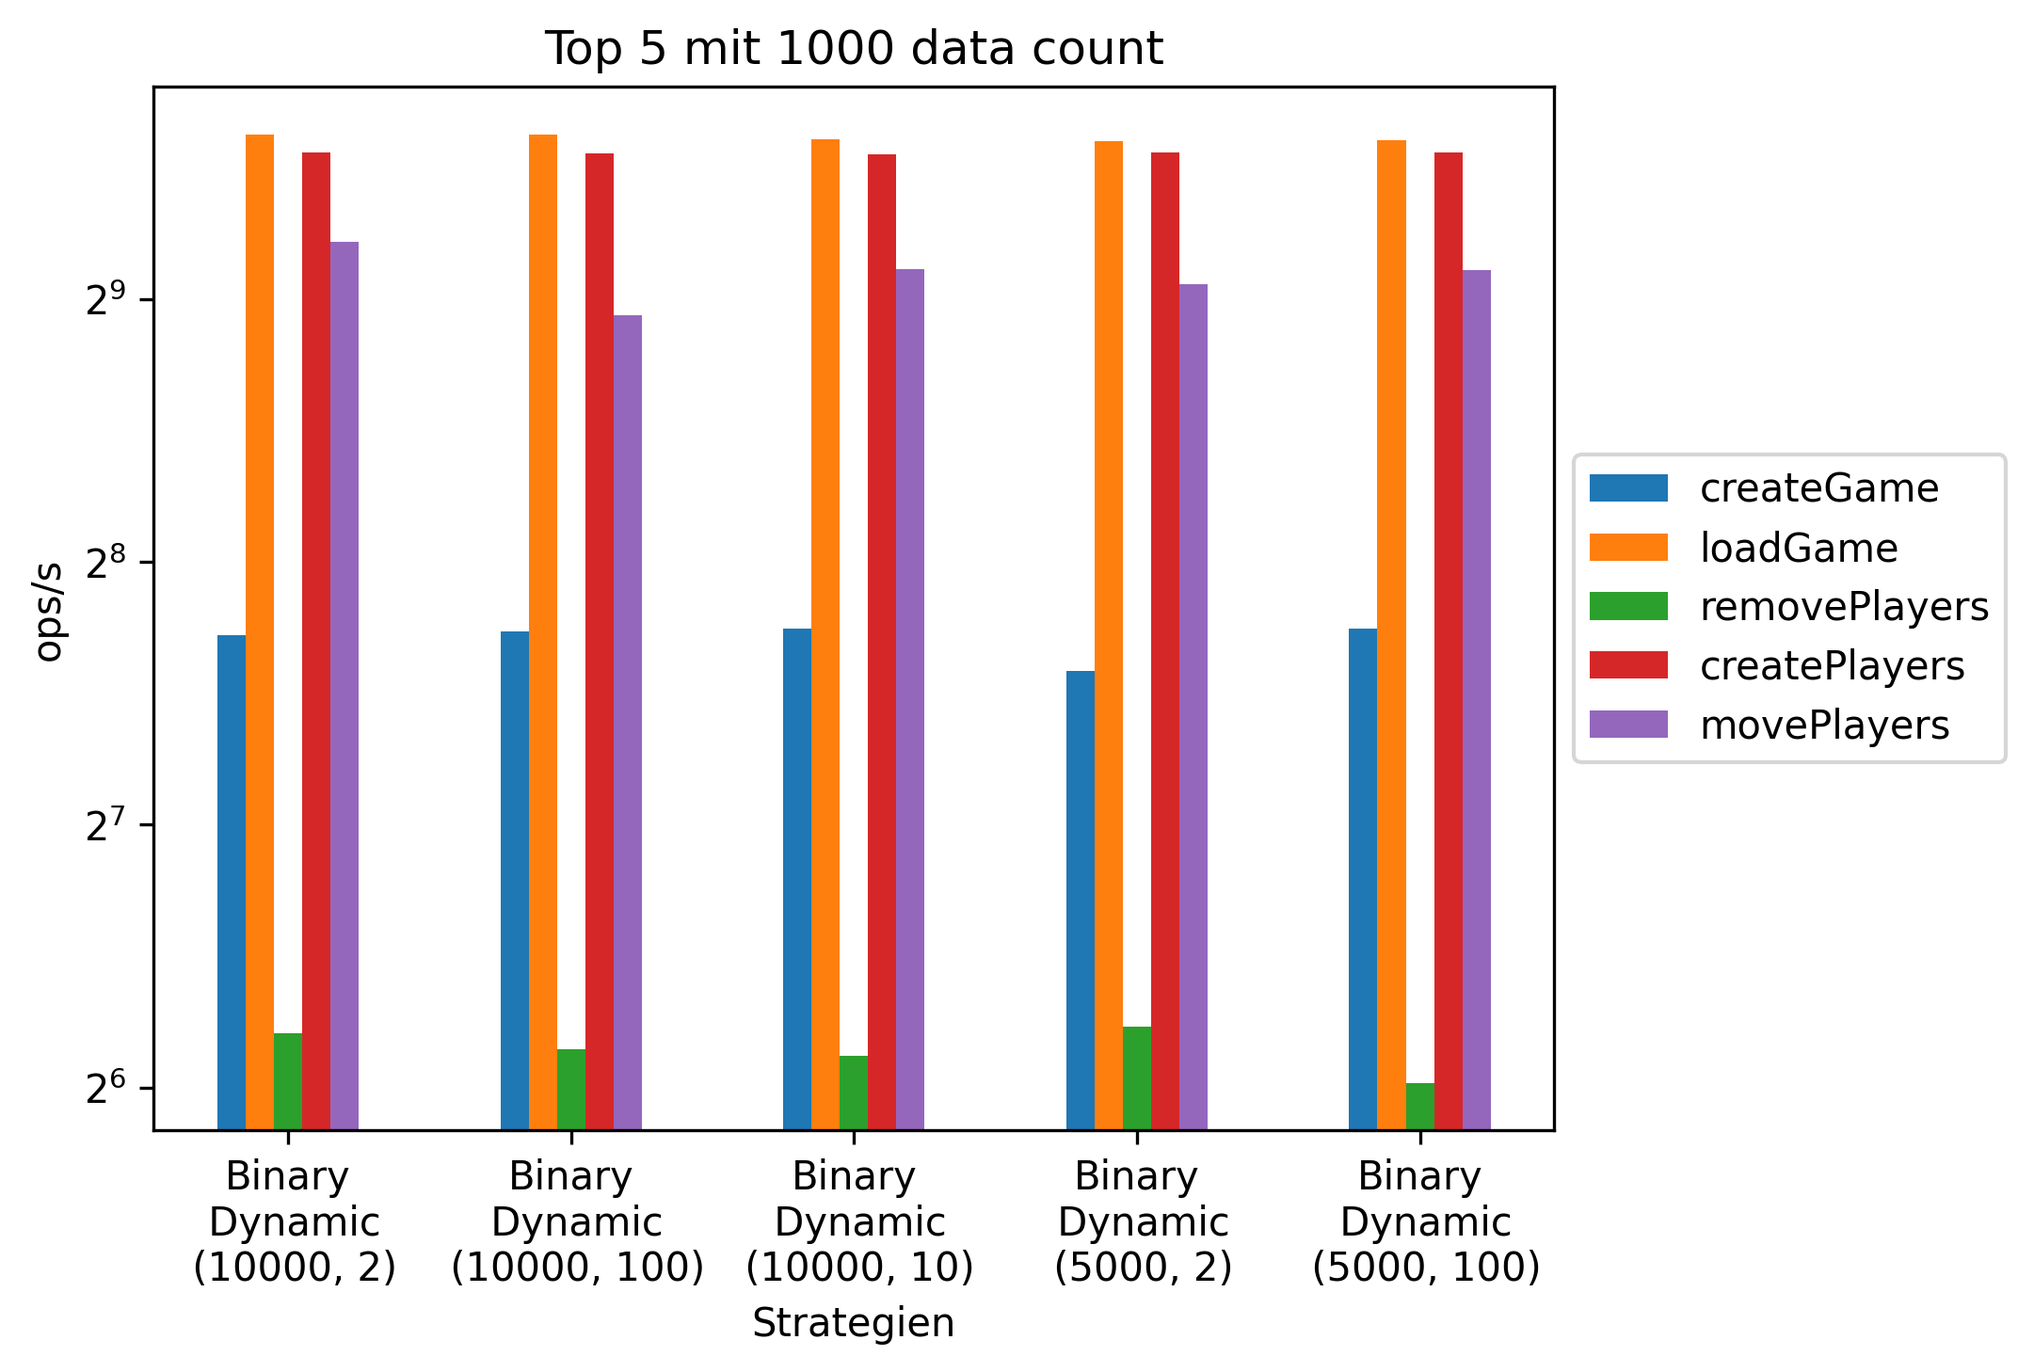
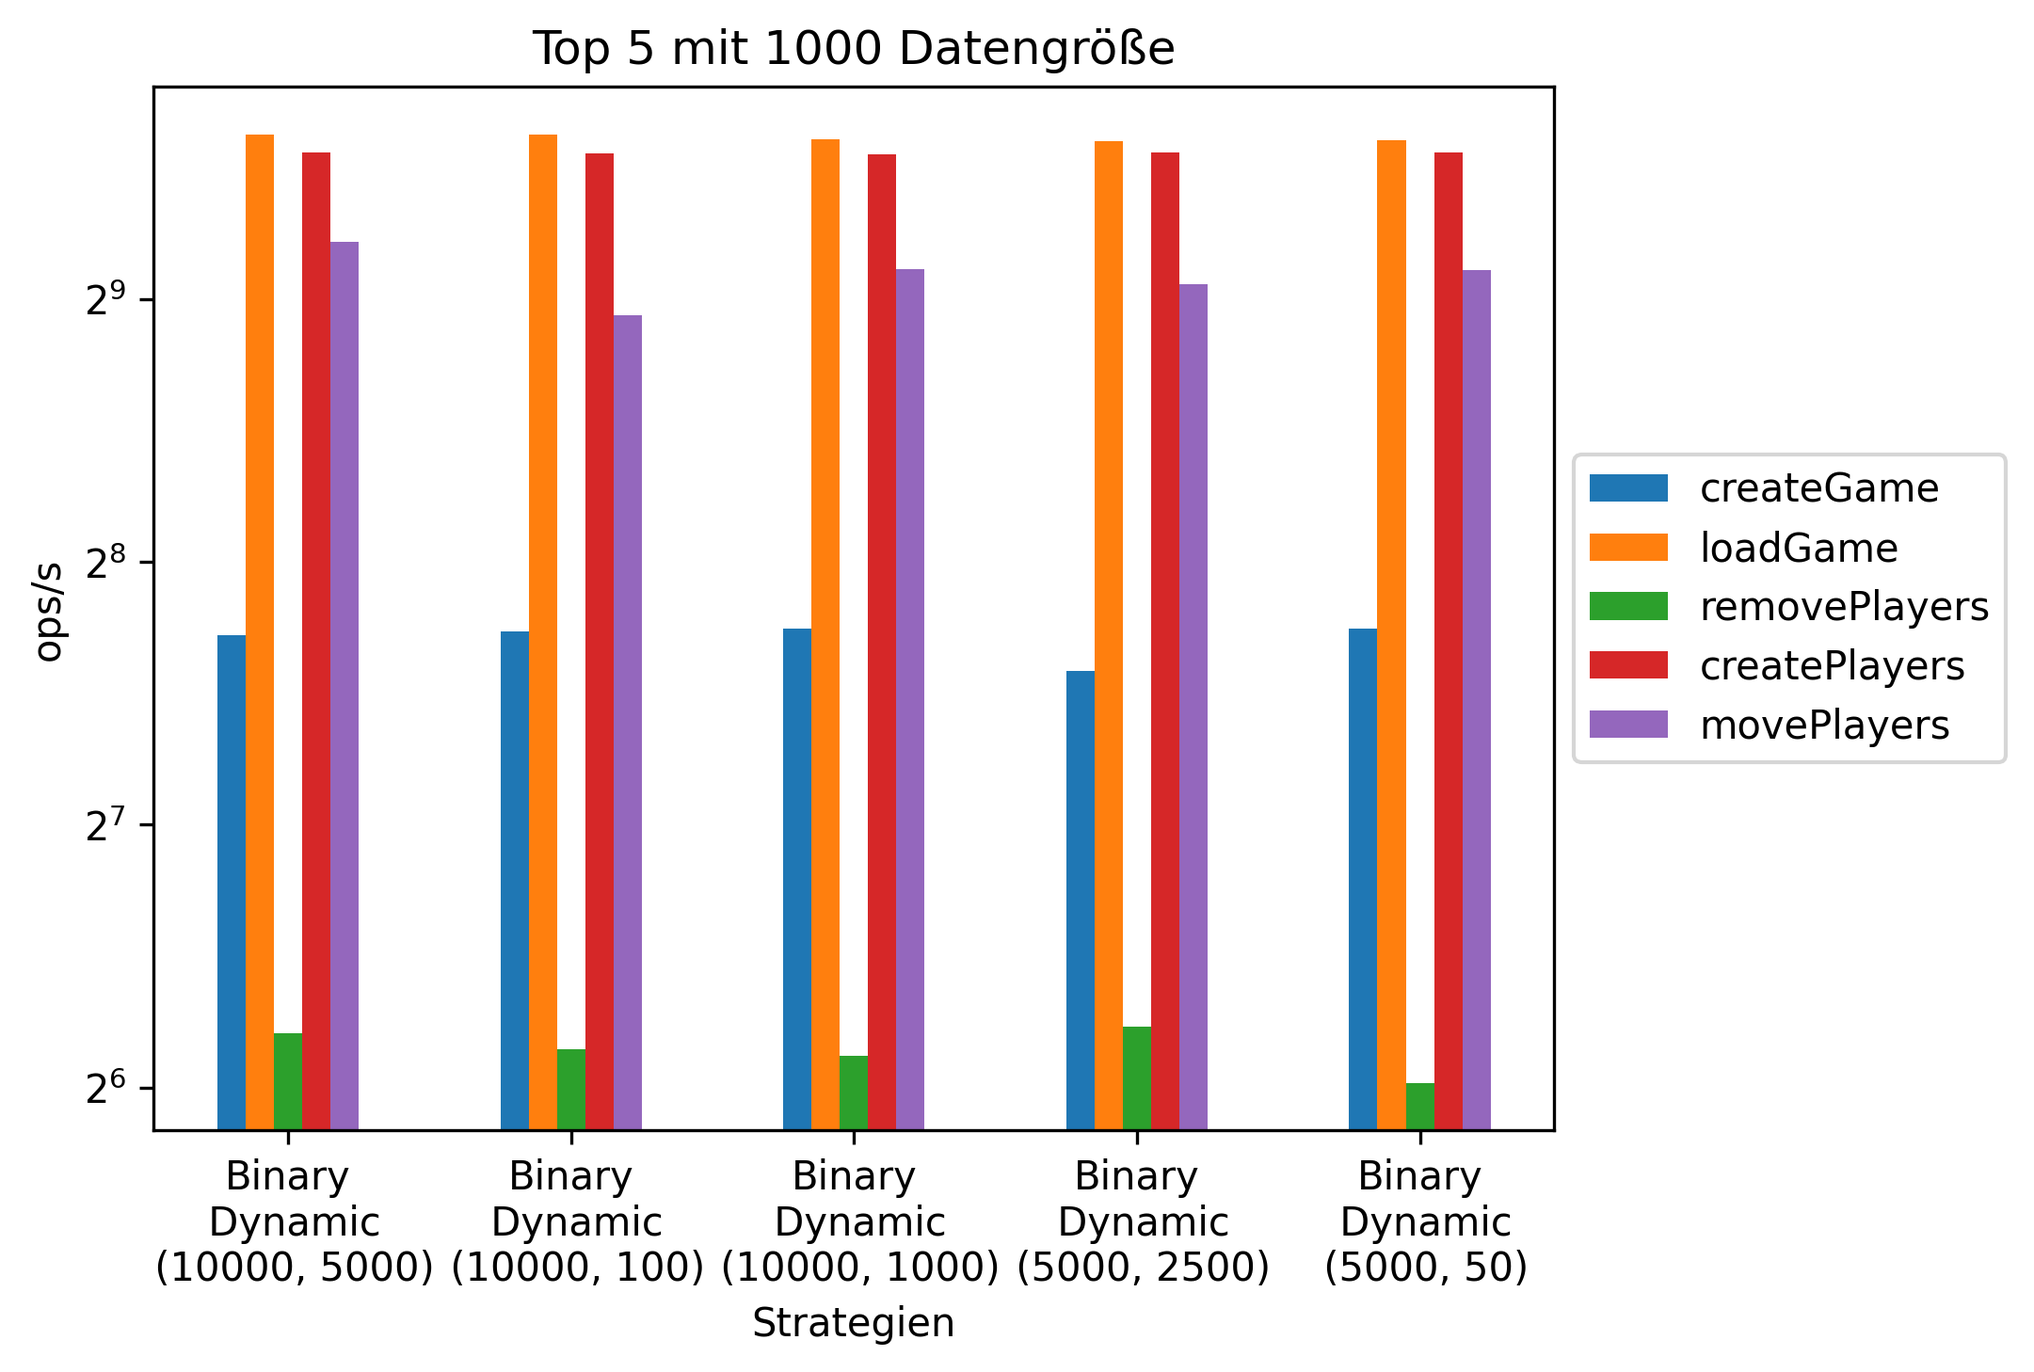
feat: chapter 1.3.3

diff --git a/thesis/src/chapter/2-algorithmen.tex b/thesis/src/chapter/2-algorithmen.tex
@@ -350,9 +350,9 @@ Kompression von Daten ist bei vielen Software-Projekten weit verbreitet, um die 
 
 Um diese Frage zu beantworten, muss erst mal geschaut werden, wann und wo Datenkomprimierung verwendet wird. Hauptsächlich wird Datenkompression verwendet, wenn eine große Datenmenge gespeichert werden muss. Je nach Algorithmus ist es durchaus möglich, dass die komprimierte Datenmenge weniger als die Hälfte der Größe der ursprünglichen Datenmenge verfügt. Dadurch werden Kosten gespart, denn das Speichermedium braucht weniger Speicherplatz. Die Komprimierung von Daten hat aber nicht nur auf den Speicherplatz einen positiven Einfluss. Wenn eine Anwendung einen hohen Datentransfer hat, kann mithilfe von Datenkompression die Menge der gesendeten Daten gesteigert werden. Dies ist bei Videospielen hilfreich, denn beim Speichern des Spielstandes müssen die Daten der einzelnen Spielobjekte aus dem Arbeitsspeicher auf den Sekundärspeicher gespeichert werden. Da der Sekundärspeicher ein viel langsameres Speichermedium als der Arbeitsspeicher ist, hilft es dort, die Größe der Daten bei den Schreib- und Leseprozessen zu reduzieren.\cite{mediumWhenDataCompression}
 
-\subsubsection{GZIP}
+\subsubsection{Gzip}
 
-Eine Möglichkeit, Daten zu komprimieren, ist mit dem populären patentfreien Kompressionsprogramm GZIP\footnote{GNU zip}. GZIP verwendet den Deflate-Algorithmus, der eine Kombination aus dem  LZ77\footnote{Lempel-Ziv 77}-Algorithmus und der Huffman-Kodierung ist. Die komprimierten Daten befinden sich in einer gzip-Datei, die die Daten als 32 Kilobytes Blöcke analysiert. Sobald in einem Block sich Wörter wiederholen, kann dieser Block komprimiert werden. \cite{gnuGzip}\cite{1414952}\cite{seobilityGzipFunktioniert}
+Eine Möglichkeit, Daten zu komprimieren, ist mit dem populären patentfreien Kompressionsprogramm \ac{gzip}. \ac{gzip} verwendet den Deflate-Algorithmus, der eine Kombination aus dem  LZ77\footnote{Lempel-Ziv 77}-Algorithmus und der Huffman-Kodierung ist. Die komprimierten Daten befinden sich in einer \ac{gzip}-Datei, die die Daten als 32 Kilobytes Blöcke analysiert. Sobald in einem Block sich Wörter wiederholen, kann dieser Block komprimiert werden. \cite{gnuGzip}\cite{1414952}\cite{seobilityGzipFunktioniert}
 
 \subsubsection{\ac{json} Hpack}
 \ac{json} Hpack, oder auch \ac{json} Homogeneous Collections Compressor genannt, ist eine \ac{json}-Komprimierung, die Arrays in \ac{json}-Dokumenten in einer kompakteren Art darstellt und dabei das \ac{json}-Format beibehält. In dem Beispiel \ref{lst:hpackCompressedExp} wird gezeigt, wie das \ac{json}-Dokument \ref{lst:hpackJsonExp} in einer komprimierten Form geschrieben werden kann. Die Komprimierung wird von \ac{json} Hpack dann durchgeführt, welches aus den Daten ein kompakteres eindimensionales Array erstellt. Am Anfang des Arrays wird mit einer Zahl definiert, wie viele Schlüssel das Array benutzt. Diese werden dann in den darauf folgenden Strings aufgezählt. In diesem Beispiel gibt es die vier Schlüssel namens "id", "name", "level" und "health". Was darauf folgt, sind die Objekte des Arrays und deren Werte. Diese werden ungetrennt in das Array gespeichert. Die Trennung der einzelnen Objekte wird mit der Information der Anzahl der Schlüssel erreicht.
@@ -491,7 +491,7 @@ In der Abbildung \ref{fig:altchunkBasedSystem} ist das Ablaufdiagramm des Chunk-
 
 \begin{figure}[htp]
     \centering
-    \includegraphics[width=0.36\textwidth]{images/Chunkbasiert2.png}
+    \includegraphics[width=0.3\textwidth]{images/Chunkbasiert2.png}
     \caption{Alternative zu dem Chunk-basierten System}
     \label{fig:altchunkBasedSystem}
 \end{figure}
@@ -516,19 +516,28 @@ Zum Testen der Strategien wurde ein Testszenario aufgestellt, welches Aktionen v
 Um diese Datenstruktur und Parameter dieser richtig zu testen, wurden fünf verschiedene Szenarien erstellt, die die Basisaktionen in einem Spiel simulieren sollen. Die Funktion \textit{"createGame"} stellt das Szenario da, bei dem ein neues Spiel erstellt wird und die komplette Datenstruktur eines Spieles aufgebaut werden muss. Die Funktion \textit{"loadGame"} stellt das Szenario da, bei dem ein Spieler den letzten Spielstand wieder weiterspielen will. Hier müssen die alte Datenstruktur und Spieldaten geladen werden. Die Funktionen \textit{"creatPlayers"}, \textit{"movePlayers"} und \textit{"removePlayers"} simulieren verschiedene Szenarien während das Spiel gespielt wird. Bei diesen Funktionen wird ein alter Spielstand geladen und dieser wird danach bearbeitet. Bei "createPlayers" wird simuliert, dass während des Spielens neue Gegner erstellt werden. Bei "movePlayers" werden zufällige \acp{npc} und der Spieler selber verschoben und bei der Funktion "removePlayers" werden Gegner gelöscht, weil diese zum Beispiel von dem Spieler besiegt wurden. Alle Änderungen werden am Ende jeder dieser Funktionen gespeichert.  
 
 \subsubsection{Parameter}
-Als Speicher- und Ladesystem wurden die zwei Systeme der Abbildungen \ref{fig:chunkBasedSystem} und \ref{fig:altchunkBasedSystem} verwendet. Dabei gibt es einen Parameter, mit dem eingestellt werden kann, ob eine sogenannte Change-Datei verwendet werden soll, die alle Änderungen der Spielobjekte so kompakt wie möglich speichert. Ein weiterer Parameter des Systems ist, mit welcher Art von Serialisierung gearbeitet werden soll. Es gibt die Wahl zwischen der binären Serialisierung und der Serialisierung zu JSON. Für die binäre Serialisierung wurde der Protocol Buffer verwendet, da dieser auch für Java unterstützt wird. Für die Serialisierung zu JSON wurde die Bibliothek Jackson verwendet. Jackson bietet eine Vielzahl an Funktionen an, um Java-Objekte als JSON-String zu formatieren und abzuspeichern.\cite{githubGitHubFasterXMLjackson} Die Strategien mit Protocol Buffer und Jackson laufen außerhalb des Serialisierungsprozesses exakt gleich ab. Bei der Serialisierung gibt es auch die Option danach GZip auf die Daten anzuwenden, um die Schreib- und Leseprozesse im Sekundärspeicher zu reduzieren. Nach diesen Parametern gibt es noch Einstellungen für das Chunk-System. Wenn für Chunks mit dynamischer Größe entschieden wird, muss eingestellt werden, wie viele Player-Objekte ein Chunk maximal haben kann, bevor er in kleinere Chunks aufgeteilt wird. Außerdem muss eingestellt werden, unter welcher Anzahl von Player-Objekten in einer Gruppe von vier Chunks diese wieder vereinigt werden. Dafür wird die Summe deren Player-Objekte berechnet und wenn diese unter der festgelegten Grenze liegt, werden die Chunks wieder vereinigt. Bei einer statischen Chunkgröße muss eingestellt werden, wie viele Chunks die Spielwelt haben soll. Die Spielwelt hat dabei eine feste Größe, aber es können theoretisch unendlich viele Spieler an einer Position sein. 
+Als Speicher- und Ladesystem wurden die zwei Systeme der Abbildungen \ref{fig:chunkBasedSystem} und \ref{fig:altchunkBasedSystem} verwendet. Dabei gibt es einen Parameter, mit dem eingestellt werden kann, ob eine sogenannte Change-Datei verwendet werden soll, die alle Änderungen der Spielobjekte so kompakt wie möglich speichert. Ein weiterer Parameter des Systems ist, mit welcher Art von Serialisierung gearbeitet werden soll. Es gibt die Wahl zwischen der binären Serialisierung und der Serialisierung zu JSON. Für die binäre Serialisierung wurde der Protocol Buffer verwendet, da dieser auch für Java unterstützt wird. Für die Serialisierung zu JSON wurde die Bibliothek Jackson verwendet. Jackson bietet eine Vielzahl an Funktionen an, um Java-Objekte als JSON-String zu formatieren und abzuspeichern.\cite{githubGitHubFasterXMLjackson} Die Strategien mit Protocol Buffer und Jackson laufen außerhalb des Serialisierungsprozesses exakt gleich ab. Bei der Serialisierung gibt es auch die Option danach \ac{gzip}-Komprimierung auf die Daten anzuwenden, um die Schreib- und Leseprozesse im Sekundärspeicher zu reduzieren. Nach diesen Parametern gibt es noch Einstellungen für das Chunk-System. Wenn für Chunks mit dynamischer Größe entschieden wird, muss eingestellt werden, wie viele Player-Objekte ein Chunk maximal haben kann, bevor er in kleinere Chunks aufgeteilt wird. Außerdem muss eingestellt werden, unter welcher Anzahl von Player-Objekten in einer Gruppe von vier Chunks diese wieder vereinigt werden. Dafür wird die Summe deren Player-Objekte berechnet und wenn diese unter der festgelegten Grenze liegt, werden die Chunks wieder vereinigt. Bei einer statischen Chunkgröße muss eingestellt werden, wie viele Chunks die Spielwelt haben soll. Die Spielwelt hat dabei eine feste Größe, aber es können theoretisch unendlich viele Spieler an einer Position sein. 
 
 Zum Testen der Parameter werden die verschiedenen Funktionen aus \ref{sssec:dataAndSce} ausgeführt. Dabei werden den Funktionen unterschiedliche Größen von Daten übergeben. Als Größen gibt es einmal 1000 Daten, 10000 Daten und 100000 Daten. Zum Beispiel stellt der Parameter von der Funktion "createGame" ein, wie viele Player beim neuen Spiel erstellt werden sollen. Dies können dann 1000, 10000 oder 100000 Player-Objekte sein.  
 
 \subsubsection{Ergebnisse}
-Die verschiedenen Parameter und Größen der Daten wurden mit JMH getestet. JMH ist ein Java-Harness zum Erstellen von Benchmarks. In diesen Benchmarks können die Laufzeiten von Funktionen und Programmen gemessen werden, indem diese über mehrere Durchläufe ausgeführt werden und am Ende eine durchschnittliche Laufzeit zurückgegeben wird. Diese wird bei JMH in "ops/s" (Operationen pro Sekunde), also wie oft die zu testende Funktion pro Sekunde ausgeführt werden kann.\cite{githubGitHubOpenjdkjmh}
+Die verschiedenen Parameter und Größen der Daten wurden mit JMH getestet. JMH ist ein Java-Harness zum Erstellen von Benchmarks. In diesen Benchmarks können die Laufzeiten von Funktionen und Programmen gemessen werden, indem diese über mehrere Durchläufe ausgeführt werden und am Ende eine durchschnittliche Laufzeit zurückgegeben wird. Diese wird bei JMH in \ac{ops}, also wie oft die zu testende Funktion pro Sekunde ausgeführt werden kann, angegeben.\cite{githubGitHubOpenjdkjmh}
 
-Bei den Ergebnissen\footnote{Alle Ergebnisse der Messungen der verschiedenen Strategien: \url{https://github.com/Giulcoo/bachelor-thesis/blob/main/resources/Strategies\%20Results/Score.txt}} in der Abbildung \ref{fig:topStrat} sind die zehn besten Strategien aufgezählt. Der Score-Wert wurde berechnet, indem \dots
-\todo{Continue}
+Um herauszufinden, welche Strategie in welchen Fällen die beste ist, wurde ein Score-Wert berechnet, indem für jedes Szenario und jeder Datengröße die Strategien nach ihren Ergebnissen sortiert wurden. Je besser eine Strategie bei einem Szenario und einer Datengröße gelaufen ist, desto größer ist der Score-Wert für diese Kategorie. Am Ende wurden die Score-Werte aller Szenarien und Datengrößen aufsummiert, um einen allgemeinen Score-Wert zu berechnen. Je größer dieser Wert ist, desto besser waren die Ergebnisse einer Strategie im Vergleich zu anderen Strategien bei allen Szenarien und Datengrößen. 
+
+Das Balkendiagramm in der Abbildung \ref{fig:topStrat} zeigt die zehn besten Strategien\footnote{\label{stratScores}Ergebnisse der Messungen und berechnete Score-Werte aller Strategien: \url{https://github.com/Giulcoo/bachelor-thesis/blob/main/resources/Strategies\%20Results/Score.txt}} nach dem Score-System aller Szenarien und Datengrößen. "Dynamic" und "Static" gibt in dem Diagramm an, ob die Chunks sich dynamisch an die Datenmenge anpassen, oder ob es nur eine feste Anzahl an Chunks gibt. Bei dynamischer Chunk-Anzahl wird noch in der letzten Zeile mit zwei Zahlen angegeben, wie viele Player-Objekte ein Chunk maximal beinhalten kann, bevor dieser sich in kleinere Chunks aufteilt, und unter welcher Anzahl an Player-Objekten eine Gruppe von Chunks wieder vereinigt wird. Bei statischer Chunk-Anzahl wird angegeben, in wie vielen Chunks die Spielwelt aufgeteilt wird. 
 
 \begin{figure}[htp]
     \centering
     \includegraphics[width=1\textwidth]{images/plots/top.png}
-    \caption{Beste Strategien in allen Kategorien}
+    \caption{Beste Strategien nach dem Score-System aller Kategorien}
     \label{fig:topStrat}
 \end{figure}
+
+Was bei der Abbildung \ref{fig:topStrat} direkt auffällt, ist, dass die besten Strategien alle eine binäre Serialisierung verwenden. Dies liegt daran, dass die zu schreibenden und lesenden Daten mit der binären Serialisierung deutlich kompakter sind, als mit JSON.  
+
+Wenn die besten Strategien von der binären- und JSON-Serialisierung betrachtet werden (siehe Abbildungen \ref{fig:topStratBin} und \ref{fig:topStratJson}), fällt außerdem noch auf, dass wenige Strategien mit \ac{gzip}-Komprimierung dabei sind. \ac{gzip} reduziert zwar die Anzahl der Schreib- und Leseprozesse im Sekundärspeicher, jedoch kann der Komprimierungsalgorithmus die Laufzeit so erhöhen, dass es schneller ist, direkt unkomprimiert mit den Daten im Sekundärspeicher zu arbeiten. Selbst bei einer großen Datenmenge (siehe Abbildung \ref{fig:bigDataCount}) scheinen Strategien mit \ac{gzip}-Komprimierung nicht effizienter als die ohne zu sein. Das einzige Szenario, bei der die \ac{gzip}-Komprimierung vorteilhafter ist, ist bei dem Szenario "removePlayers" (siehe Abbildung \ref{fig:removePlayers}). Hier verwenden die besten Strategien größtenteils die Komprimierung. Allgemein ist dieses Szenario das zeitintensivste, daher bietet die Reduzierung von Prozessen im Sekundärspeicher durch die Komprimierung einen Vorteil im Vergleich zu anderen Ansätzen. 
+
+Außerdem scheinen Strategien mit dynamischer Chunk-Anzahl im allgemeinen besser abzuschneiden, die diese anpassungsfähiger sind und somit die Daten effizienter gruppieren. Die Strategie mit statischer Chunk-Anzahl, bei der die Spielwelt in zwei mal zwei, also vier Chunks, aufgeteilt wird, ist unter den besten zehn Strategien die einzige mit statischer Chunk-Anzahl. Es ist also effizienter, bei einer statischen Chunk-Anzahl, mit weniger Chunks zu arbeiten, statt die Spielwelt in vielen kleinen Chunks aufzuteilen. Dies fällt auch bei den Ergebnissen der Strategien mit dynamischer Chunk-Anzahl auf. Je mehr Player-Objekte ein Chunk beinhalten kann, desto effizienter läuft der Algorithmus.
+
+Kein Change File\dots

diff --git a/resources/Strategies Results/score.py b/resources/Strategies Results/score.py
@@ -206,12 +206,38 @@ def plot_top(strategies):
     plt.xlabel("Strategien")
     plt.ylabel("Score")
     plt.xticks(x_axis, x)
-    plt.yticks([100*x for x in range(0,10)]) 
+    plt.yticks([100*x for x in range(0,14)]) 
     plt.title("Top 10 Strategien")
-    plt.gcf().set_size_inches(12.5, 5)
+    plt.gcf().set_size_inches(14, 5)
     plt.savefig(PLOT + "//top.png", dpi=300, bbox_inches='tight')
     plt.close(fig)
 
+def plot_serialization(strategies, serialization):
+    x = []
+    y = []
+
+    i = 0
+    for result in get_sorted(strategies):
+        s = strategies[result[0]]
+        if s.serialization == serialization: 
+            x.append(s.label())
+            y.append(s.score())
+            i += 1
+        
+        if i >= 10:
+            break
+
+    x_axis = np.arange(len(x))
+
+    fig = plt.figure()
+    plt.bar(x,y)
+    plt.xlabel("Strategien")
+    plt.ylabel("Score")
+    plt.xticks(x_axis, x)
+    plt.title("Top 10 Strategien mit " + serialization + "-Serialisierung")
+    plt.gcf().set_size_inches(14, 5)
+    plt.savefig(PLOT + "//" + serialization + ".png", dpi=300, bbox_inches='tight')
+    plt.close(fig)
 
 def plot_func(strategies, function):
     x = []
@@ -268,13 +294,15 @@ def plot_datacount(strategies, datacount):
     plt.legend(loc='center left', bbox_to_anchor=(1, 0.5))
     plt.xlabel("Strategien")
     plt.ylabel("ops/s")
-    plt.title("Top 5 mit " + datacount + " data count")
+    plt.title("Top 5 mit " + datacount + " Datengröße")
     plt.yscale('log',base=2) 
     plt.savefig(PLOT + "//" + datacount + ".png", dpi=300, bbox_inches='tight')
     plt.close(fig)
 
 def plot(strategies):
     plot_top(strategies)
+    plot_serialization(strategies, "Json")
+    plot_serialization(strategies, "Binary")
 
     for function in get_functions(strategies):
         plot_func(strategies, function)

diff --git a/thesis/src/appendix.tex b/thesis/src/appendix.tex
@@ -2,15 +2,29 @@
 
 \begin{figure}[htp]
     \centering
+    \includegraphics[width=1\textwidth]{images/plots/Binary.png}
+    \caption{Beste Binären-Strategien nach dem Score-System aller Kategorien}
+    \label{fig:topStratBin}
+\end{figure}
+
+\begin{figure}[htp]
+    \centering
+    \includegraphics[width=1\textwidth]{images/plots/Json.png}
+    \caption{Beste JSON-Strategien nach dem Score-System aller Kategorien}
+    \label{fig:topStratJson}
+\end{figure}
+
+\begin{figure}[htp]
+    \centering
     \includegraphics[width=0.7\textwidth]{images/plots/1000.png}
-    \caption{Beste Strategien bei einer Daten-Anzahl von 1000}
+    \caption{Beste Strategien bei einer Datengröße von 1000}
     \label{fig:smallDataCount}
 \end{figure}
 
 \begin{figure}[htp]
     \centering
     \includegraphics[width=0.7\textwidth]{images/plots/10000.png}
-    \caption{Beste Strategien bei einer Daten-Anzahl von 10000}
+    \caption{Beste Strategien bei einer Datengröße von 10000}
     \label{fig:middleDataCount}
 \end{figure}
 

diff --git a/thesis/src/acronyms.tex b/thesis/src/acronyms.tex
@@ -36,6 +36,11 @@
     \vspace{\parskip}
 
     \acro{protoc}[protoc]{Protocol Buffer Compiler}
+    \acro{gzip}[Gzip]{GNU zip}
+
+    \vspace{\parskip}
+
+    \acro{ops}[ops/s]{Operations per second}
 
     \vspace{\parskip}
 
